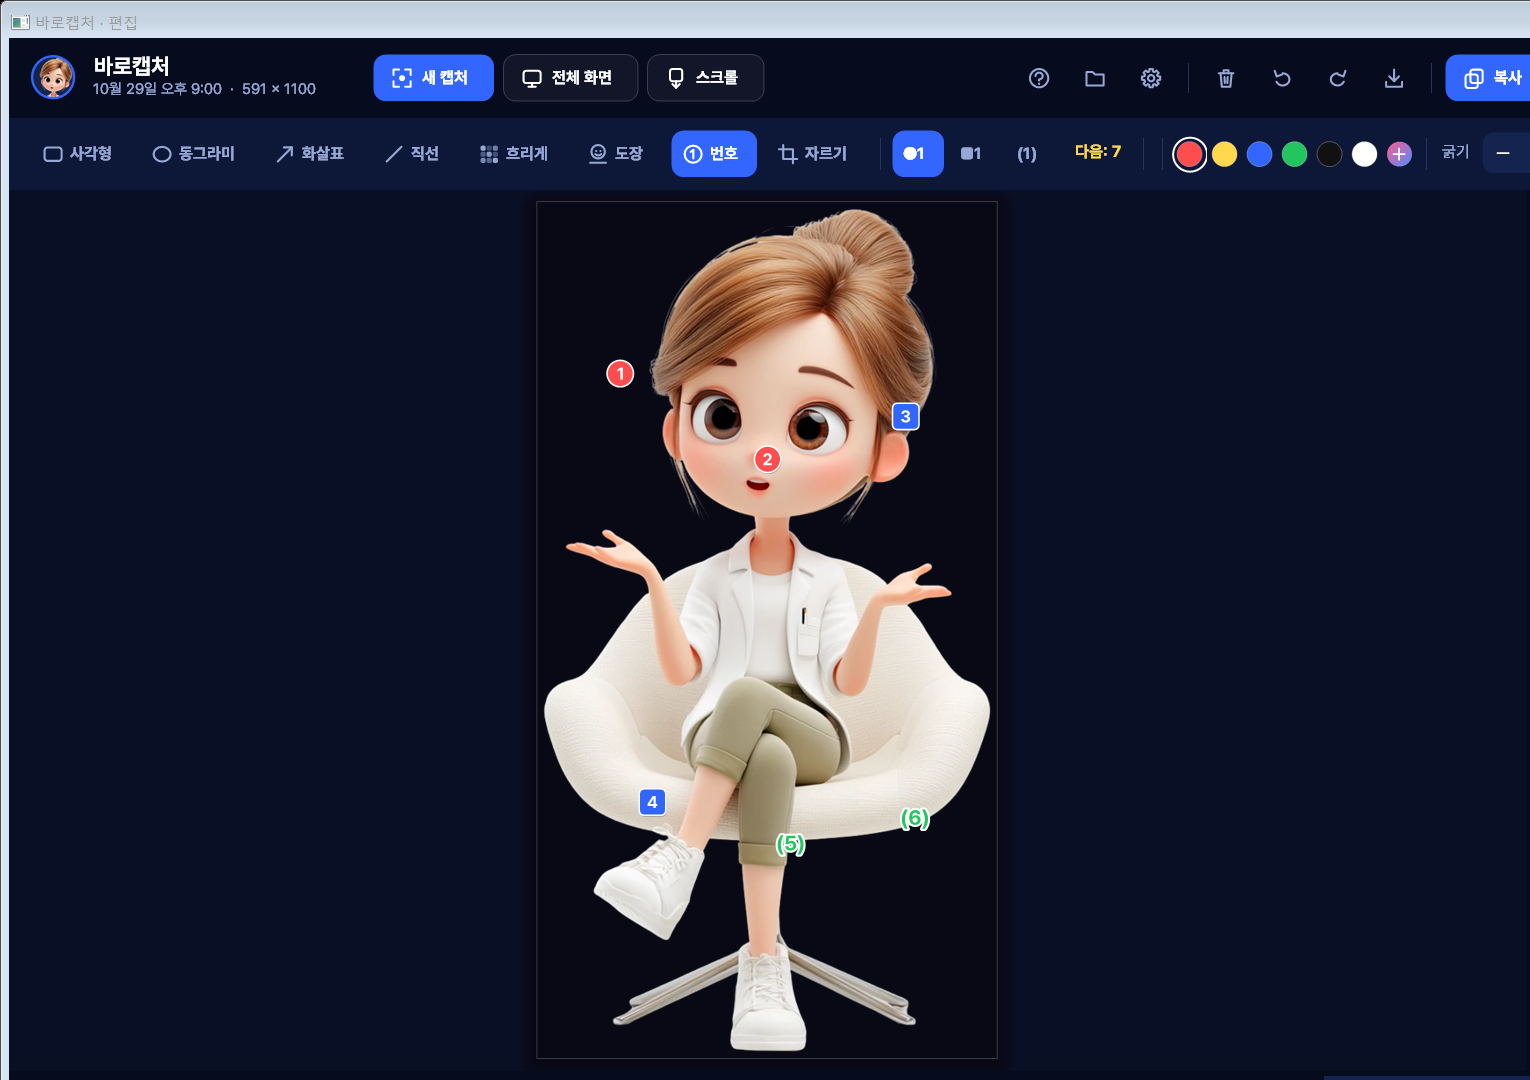
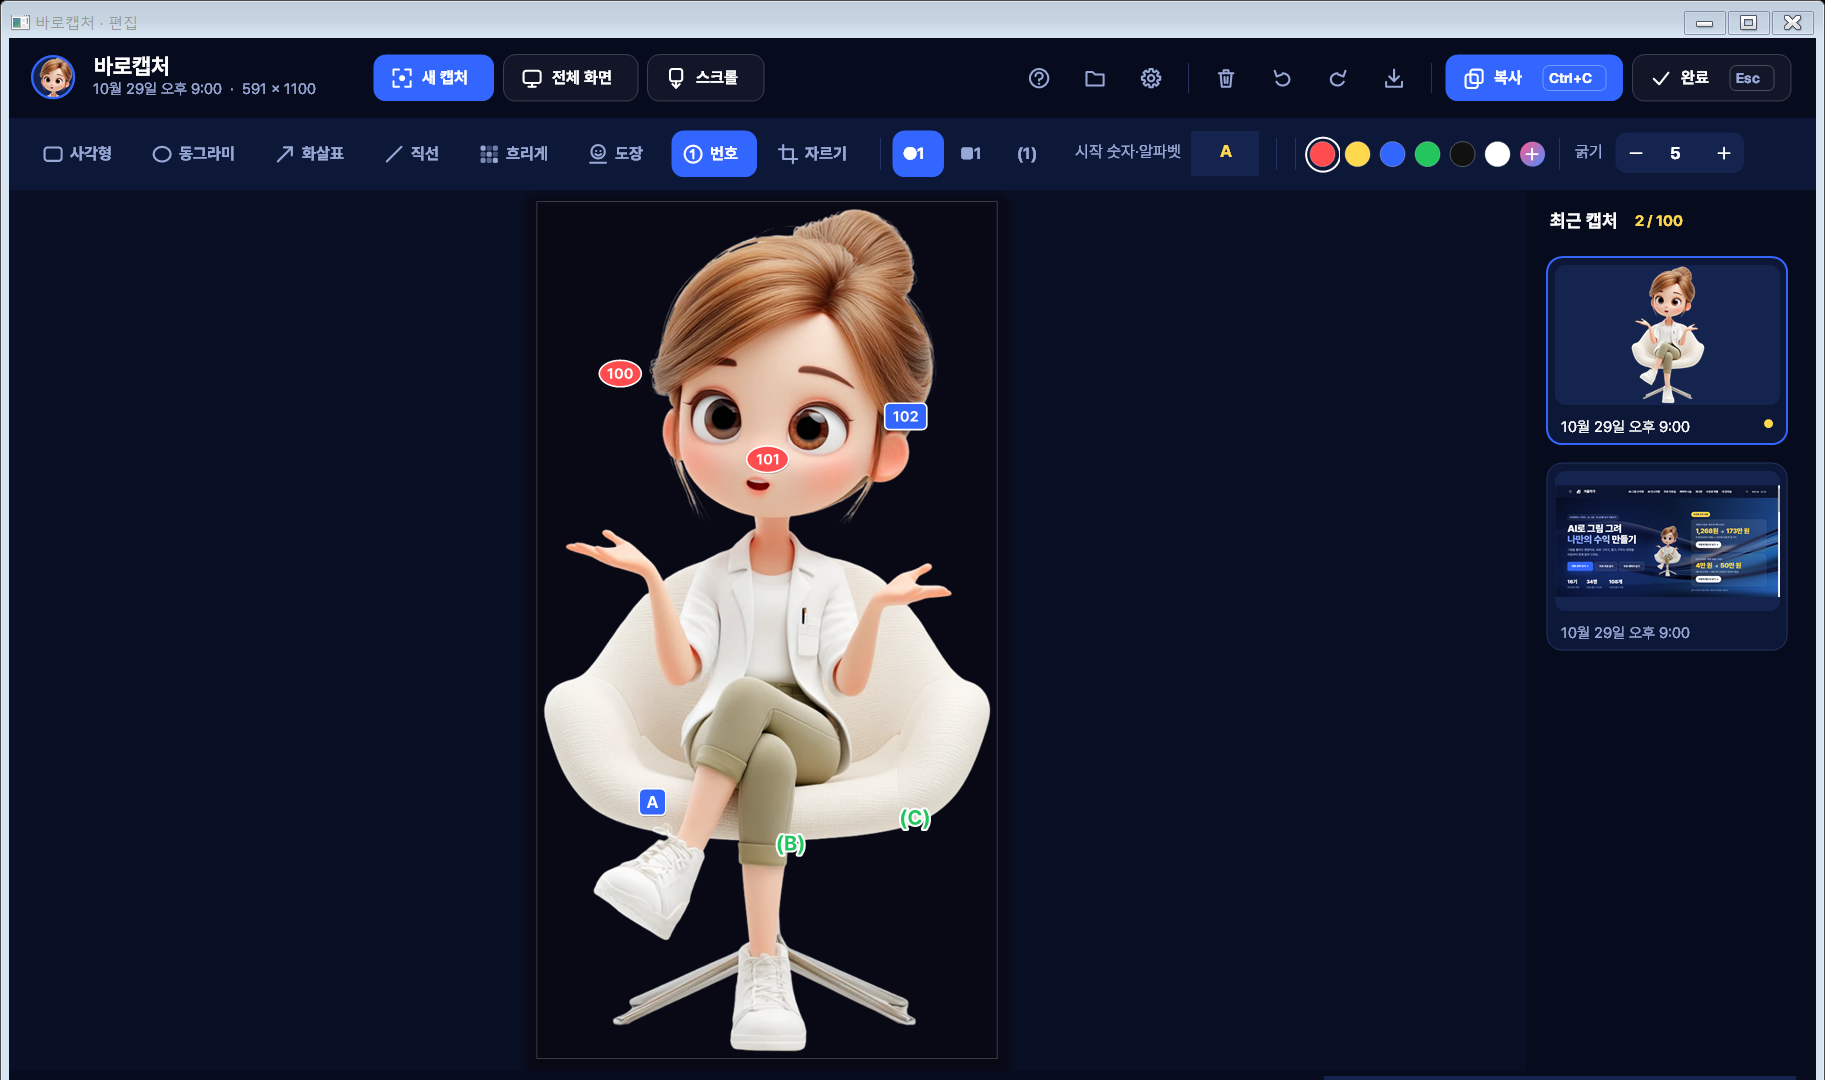
README: 1.11, 안내 그림(번호·자르기)

diff --git a/README.md b/README.md
@@ -3,7 +3,7 @@
 광고 없는 가벼운 Windows 캡처 프로그램 · 만든 사람 겨울작가 (AI 수익화 전문) · https://theaiwk.com
 
 ## 다운로드
-**[바로캡처 최신 버전 받기 (BaroCapture_1.10.zip)](https://github.com/youri355/barocapture/releases/latest/download/BaroCapture_1.10.zip)**
+**[바로캡처 최신 버전 받기 (BaroCapture_1.11.zip)](https://github.com/youri355/barocapture/releases/latest/download/BaroCapture_1.11.zip)**
 
 ## 📖 그림으로 된 사용 안내
 https://docs.google.com/document/d/1SZKt4QaRmqhfKxmfuB67iHlLGq-DSoF0aDTVc9b6BnI/edit?usp=sharing
